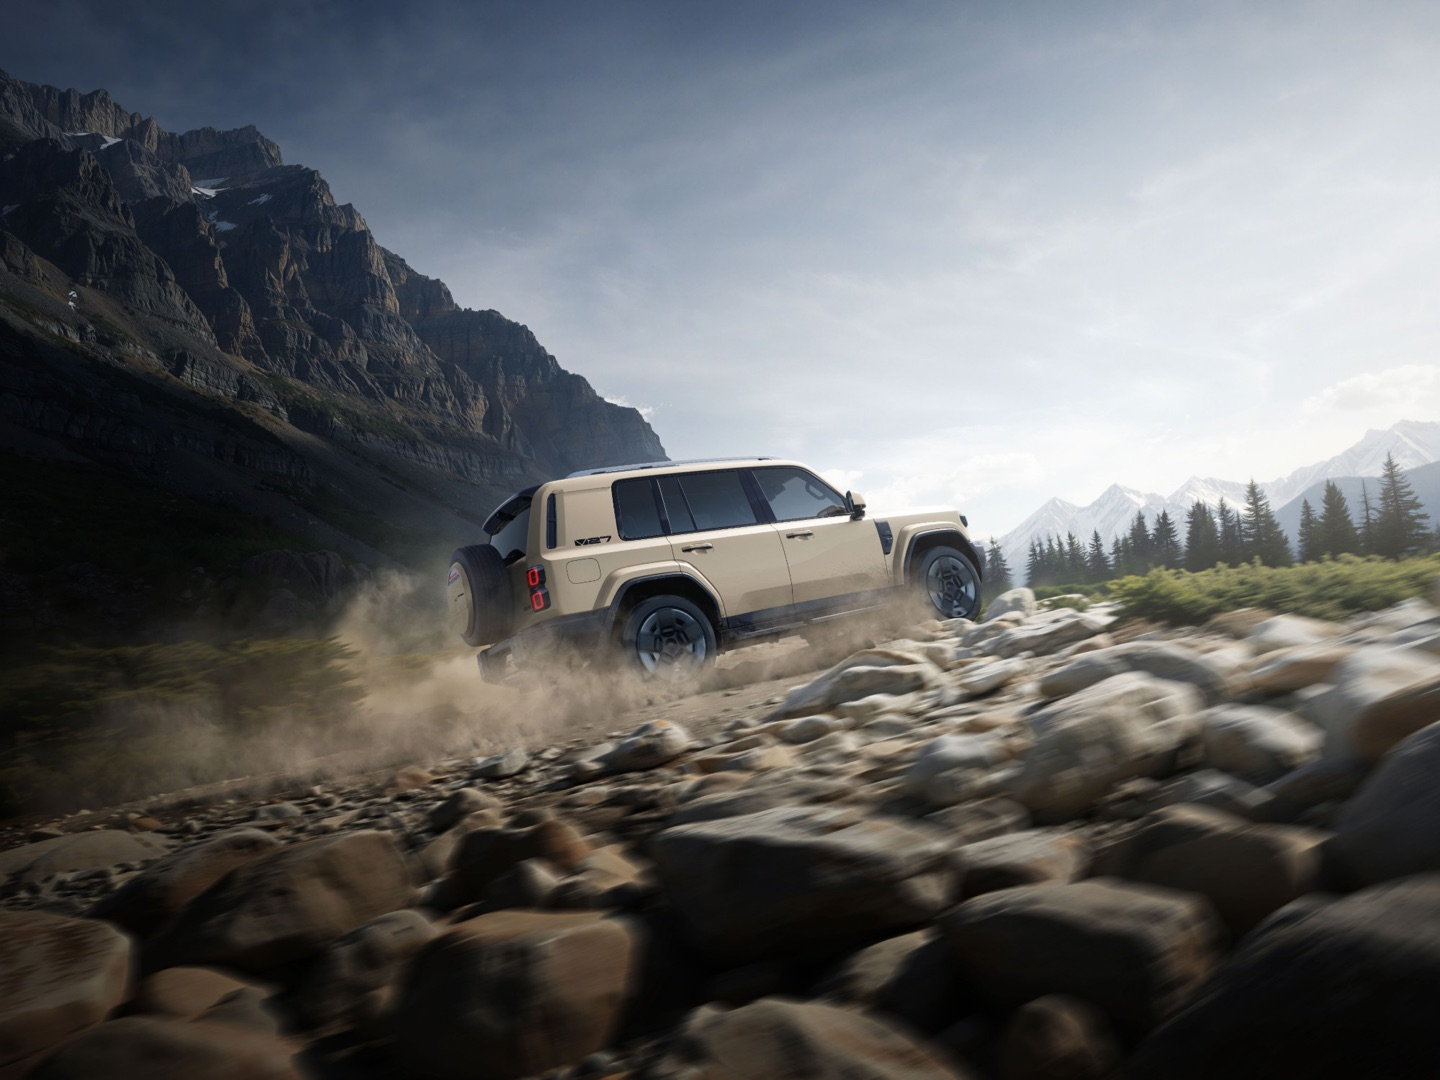
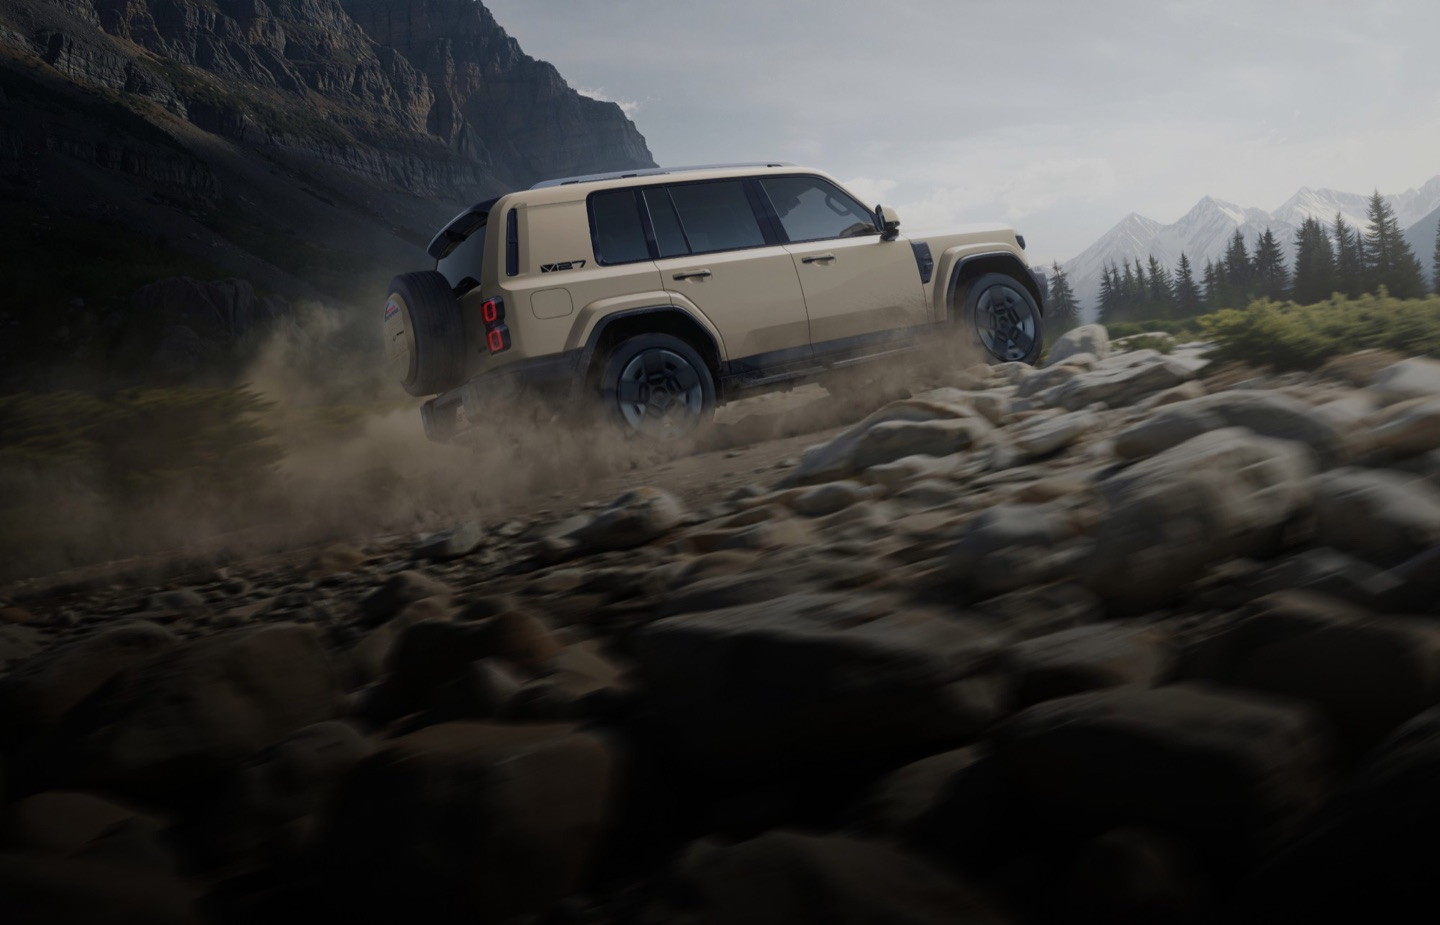
V27 Fuoristrada: nuova foto in montagna (auto più in alto, più pietraia sotto)

diff --git a/src/pages/v27.html b/src/pages/v27.html
@@ -294,7 +294,7 @@
   <!-- ===== OFF-ROAD ===== -->
   <section class="offroad" aria-labelledby="offroad-title">
     <div class="offroad__media" data-parallax="12">
-      <img src="{{ @assets }}img/v27/out-rocks-trail-1440.jpg" srcset="{{ @assets }}img/v27/out-rocks-trail-800.jpg 800w, {{ @assets }}img/v27/out-rocks-trail-1440.jpg 1440w, {{ @assets }}img/v27/out-rocks-trail-2000.jpg 2000w" sizes="100vw" alt="{{ v27.offroad.alt }}" width="2000" height="1500" loading="lazy">
+      <img src="{{ @assets }}img/v27/out-rocks-trail-1440.jpg" srcset="{{ @assets }}img/v27/out-rocks-trail-800.jpg 800w, {{ @assets }}img/v27/out-rocks-trail-1440.jpg 1440w, {{ @assets }}img/v27/out-rocks-trail-2000.jpg 2000w" sizes="100vw" alt="{{ v27.offroad.alt }}" width="2000" height="1285" loading="lazy">
     </div>
     <div class="container offroad__content">
       <p class="eyebrow" data-reveal>{{ v27.offroad.eyebrow }}</p>

diff --git a/src/assets/css/model.css b/src/assets/css/model.css
@@ -481,6 +481,6 @@ html.is-spot-open .site-header { transform: translateY(calc(-100% - var(--header
 .offroad { min-height: 118vh; }   /* more photo below the car, which sits higher above the text */
 @media (min-width: 768px) {   /* photo anchored by its width so the car sits in the upper third; below it the rocks fade to black */
   .offroad { background: #000; }
-  .offroad__media { inset: auto 0; top: calc(41vh - 39vw); }
+  .offroad__media { inset: auto 0; top: 0; }   /* new photo: car already in the upper part */
   .offroad__media img { height: auto; object-fit: initial; }
 }
